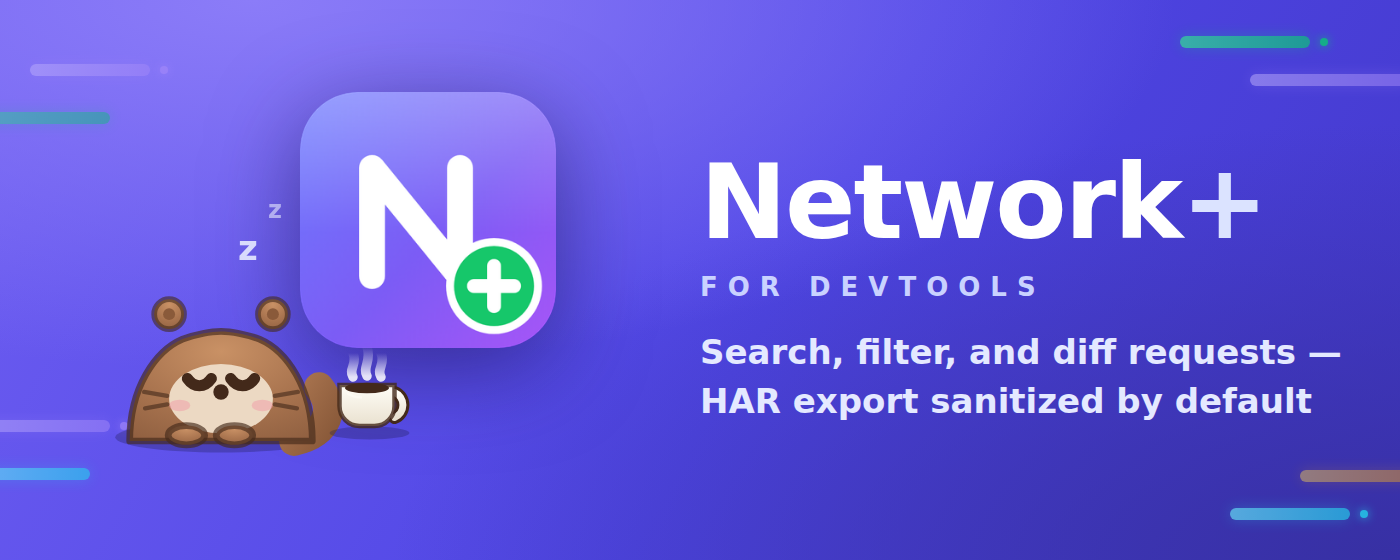
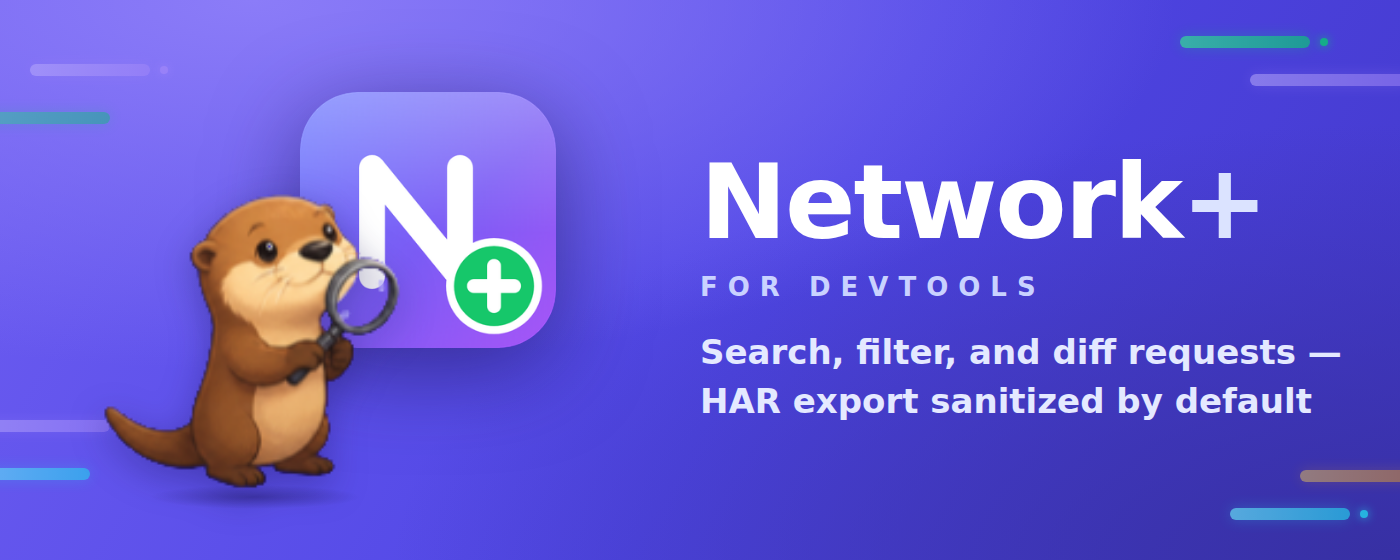
feat: restore the illustrated otter to the promo tile and marquee
The promotional tile returns to the original otter-investigator
illustration, byte-for-byte from the pre-redesign history. The marquee
keeps the approved icon-centerpiece layout — background, waterfall bars,
icon, wordmark, and tagline unchanged — but the mascot slot now holds
that same illustrated otter, cut out of the tile art rather than
redrawn, so both promo slots show one character. The cup and the z go
away there: this otter is awake and investigating.

Inventory provenance follows: the tile entry gets its original
image-generation wording back, the marquee entry describes the cutout
composition, and the readiness pins and both submission dossiers match.

Claude-Session: https://claude.ai/code/session_0124M1SVHRgJnNrGMbz4rPpK

Changed region(s): [[0.0614, 0.3339, 0.3071, 0.9107]]

diff --git a/scripts/check-store-readiness.js b/scripts/check-store-readiness.js
@@ -141,8 +141,7 @@ const EXPECTED_ASSETS = Object.freeze({
     kind: 'promotional-tile',
     width: 440,
     height: 280,
-    source:
-      'Playwright render of the checked-in extension icon and the vector otter-and-cup mascot art; no captured traffic',
+    source: 'Image generation using the Network+ logo and synthetic request-detail screenshot as references',
     domains: Object.freeze([]),
   }),
   'chrome-marquee-1400x560.png': Object.freeze({
@@ -150,7 +149,7 @@ const EXPECTED_ASSETS = Object.freeze({
     width: 1400,
     height: 560,
     source:
-      'Playwright render of the checked-in extension icon and the vector otter-and-cup mascot art; no captured traffic',
+      'Playwright composition of the checked-in extension icon, the otter-investigator illustration cut out of the promotional tile, and the wordmark; no captured traffic',
     domains: Object.freeze([]),
   }),
   'screenshot-1-request-detail-1280x800.png': Object.freeze({

diff --git a/docs/CHANGELOG.md b/docs/CHANGELOG.md
@@ -6,8 +6,8 @@ All notable changes to Network+ for DevTools. Versions follow [Semantic Versioni
 
 - The mascot is now an otter, in the toolbar brand mark and the support dialog alike — and the toolbar mark is now pixel art. At its real 15-pixel height, smooth vector shapes rasterized into mush, so the mark is a hand-placed 22x15 sprite drawn at exactly one device pixel per cell with `crispEdges`. Two full sprites ship in the markup: asleep (shut eyes, blush, a drifting z), and a woken frame that hover or focus cuts to instantly, ears perked and a magnifying glass raised — the investigator motif this network inspector deserves. The idle breathing tween became a two-frame `steps()` bob, so every frame stays on the pixel grid. The support dialog keeps its larger smooth vector otter, where there is room for curves, and all motion still stops under `prefers-reduced-motion`.
 - Remade the four store screenshots as dark, numbered compositions: the panel is captured in its real dark theme at final pixel size and set unscaled inside a gradient-ring frame on a deep-indigo glowing canvas, each with a step eyebrow (01-04) and a white headline. The intended display order is now part of the file names (`screenshot-1-…` through `screenshot-4-…`), since the stores show screenshots in upload order and the old names carried no ordering at all.
-- Rebuilt the promotional tile and marquee around the composition the retired otter tile got right: the actual extension icon is the centerpiece, the sleeping otter and steaming cup sit beside it with gradient shading, blush, whiskers, and ground shadows, and glowing status-colored waterfall bars give the background depth. The tile is text-free again. The 1400x560 marquee doubles as the Microsoft Edge Large promotional tile, which uses the same dimensions per the Partner Center listing guide.
-- Redesigned the store listing media around the shipped brand. The promotional tile shows the mascot-and-cup scene rendered from the project's own brand art; a 1400x560 marquee promo is new, so the listing qualifies for featured placements; the four screenshots are now compositions — a one-line headline over an unscaled, natively captured panel view, so the pixels stay sharp — and the README tour GIF opens with a brand title card and captions each of its four steps. Every asset remains synthetic-only and is size- and provenance-checked by `store:check`.
+- The promotional tile is the original otter-investigator illustration again, byte-for-byte, and the new 1400x560 marquee keeps the icon-centerpiece layout while placing that same illustrated otter — cut out of the tile art, not redrawn — beside the icon, with the wordmark and feature tagline on the right. The tile stays text-free. The marquee doubles as the Microsoft Edge Large promotional tile, which uses the same dimensions per the Partner Center listing guide.
+- Redesigned the store listing media. A 1400x560 marquee promo is new, so the listing qualifies for featured placements; the four screenshots are now compositions — a one-line headline over an unscaled, natively captured panel view, so the pixels stay sharp — and the README tour GIF opens with a brand title card and captions each of its four steps. Every asset remains synthetic-only and is size- and provenance-checked by `store:check`.
 - Added `npm run store:setup`, a guided runner for the one-time credential setup the store automation needs. It opens each portal page at the point it is needed, stops for the parts only a signed-in operator can do, checks the shape of the two identifiers whose format is documented, and pipes each value into the `store-submission` environment over stdin rather than as a command-line argument, so no credential reaches a file, the terminal scrollback, or the process table. The stored names are read back afterwards to prove the workflow will find them.
 - Store submission is now automated. Publishing a GitHub release also uploads that release's archive to the existing Microsoft Edge Add-ons product and Chrome Web Store item and submits it for review; the same run can be started by hand from the Actions tab, for one store or both, and can stop after the upload instead of submitting. The archive is rebuilt and its SHA-256 compared against the digest the submission dossiers pin before anything is uploaded, so a store can only receive reviewed bytes. Credentials are read from repository secrets held by a dedicated `store-submission` environment, are redacted out of every message the run prints, and a store with no credentials configured is skipped rather than failing the other one. A helper, `scripts/chrome-refresh-token.js`, obtains the Chrome refresh token through a loopback consent flow, because the published guide still documents the out-of-band redirect that Google retired and a client created today is refused by it.
 - Recorded the published v1.9.0 release in the Microsoft Edge and Chrome submission dossiers: the ZIP was re-downloaded from the public release, its 151681-byte size and SHA-256 digest were verified against the value the store kits pin, and the downloaded file was byte-compared against the local build.

diff --git a/docs/chrome-web-store-submission.md b/docs/chrome-web-store-submission.md
@@ -71,7 +71,7 @@ Do not add unrelated search phrases to the description. Chrome Web Store metadat
 | Dashboard field | File | Status and notes |
 |---|---|---|
 | Store icon | `icons/icon128.png` | Required 128 x 128 PNG packaged in the ZIP. The current artwork is usable; Google's transparent-padding guidance should be treated as a visual-quality recommendation and rechecked in the dashboard preview. |
-| Small promo tile | `docs/store-assets/chrome-small-promo-440x280.png` | Required 440 x 280 PNG. Text-free full-bleed tile: the extension icon as the centerpiece with the sleeping Network+ otter and steaming cup beside it, echoing the toolbar mascot. |
+| Small promo tile | `docs/store-assets/chrome-small-promo-440x280.png` | Required 440 x 280 PNG. Text-free full-bleed tile: the otter investigator illustration beside the extension icon — the original illustrated mascot the listing shipped with. |
 | Marquee promo | `docs/store-assets/chrome-marquee-1400x560.png` | Optional 1400 x 560 PNG for featured placements: the same brand scene with the wordmark and the feature tagline. The identical file fills the Microsoft Edge Large promotional tile slot, which uses the same dimensions. |
 | Screenshot 1 | `docs/store-assets/screenshot-1-request-detail-1280x800.png` | Required screenshot set; headline band over an unscaled synthetic capture: 503 request and response headers. |
 | Screenshot 2 | `docs/store-assets/screenshot-2-timing-guidance-1280x800.png` | Synthetic timing evidence and observability guidance. |

diff --git a/docs/edge-addons-submission.md b/docs/edge-addons-submission.md
@@ -168,7 +168,7 @@ Each screenshot is a 1280 x 800 composition: a one-line headline band above an u
 | File | Depicted state | Synthetic evidence |
 |---|---|---|
 | `docs/store-assets/logo-300.png` | 300 x 300 Network+ logo derived from the checked-in extension mark | No traffic data |
-| `docs/store-assets/chrome-small-promo-440x280.png` | 440 x 280 text-free brand tile: the extension icon with the sleeping otter and steaming cup beside it | No traffic data; fills the Edge Small promotional tile slot and the Chrome required small-promo slot |
+| `docs/store-assets/chrome-small-promo-440x280.png` | 440 x 280 text-free brand tile: the otter investigator illustration beside the extension icon | No traffic data; fills the Edge Small promotional tile slot and the Chrome required small-promo slot |
 | `docs/store-assets/chrome-marquee-1400x560.png` | 1400 x 560 brand marquee: the same scene with the wordmark and feature tagline | No traffic data; fills the Edge Large promotional tile slot (1400 x 560 per the Partner Center listing guide) and the Chrome marquee slot |
 | `docs/store-assets/screenshot-1-request-detail-1280x800.png` | Request grid with the synthetic 503 row selected and response headers visible | `checkout.network-plus.test`, `Retry-After: 30`, local sample status |
 | `docs/store-assets/screenshot-2-timing-guidance-1280x800.png` | Response Timing view and timing interpretation guidance | 2,450 ms total, 2,200 ms Wait (TTFB), browser-evidence limitation |
